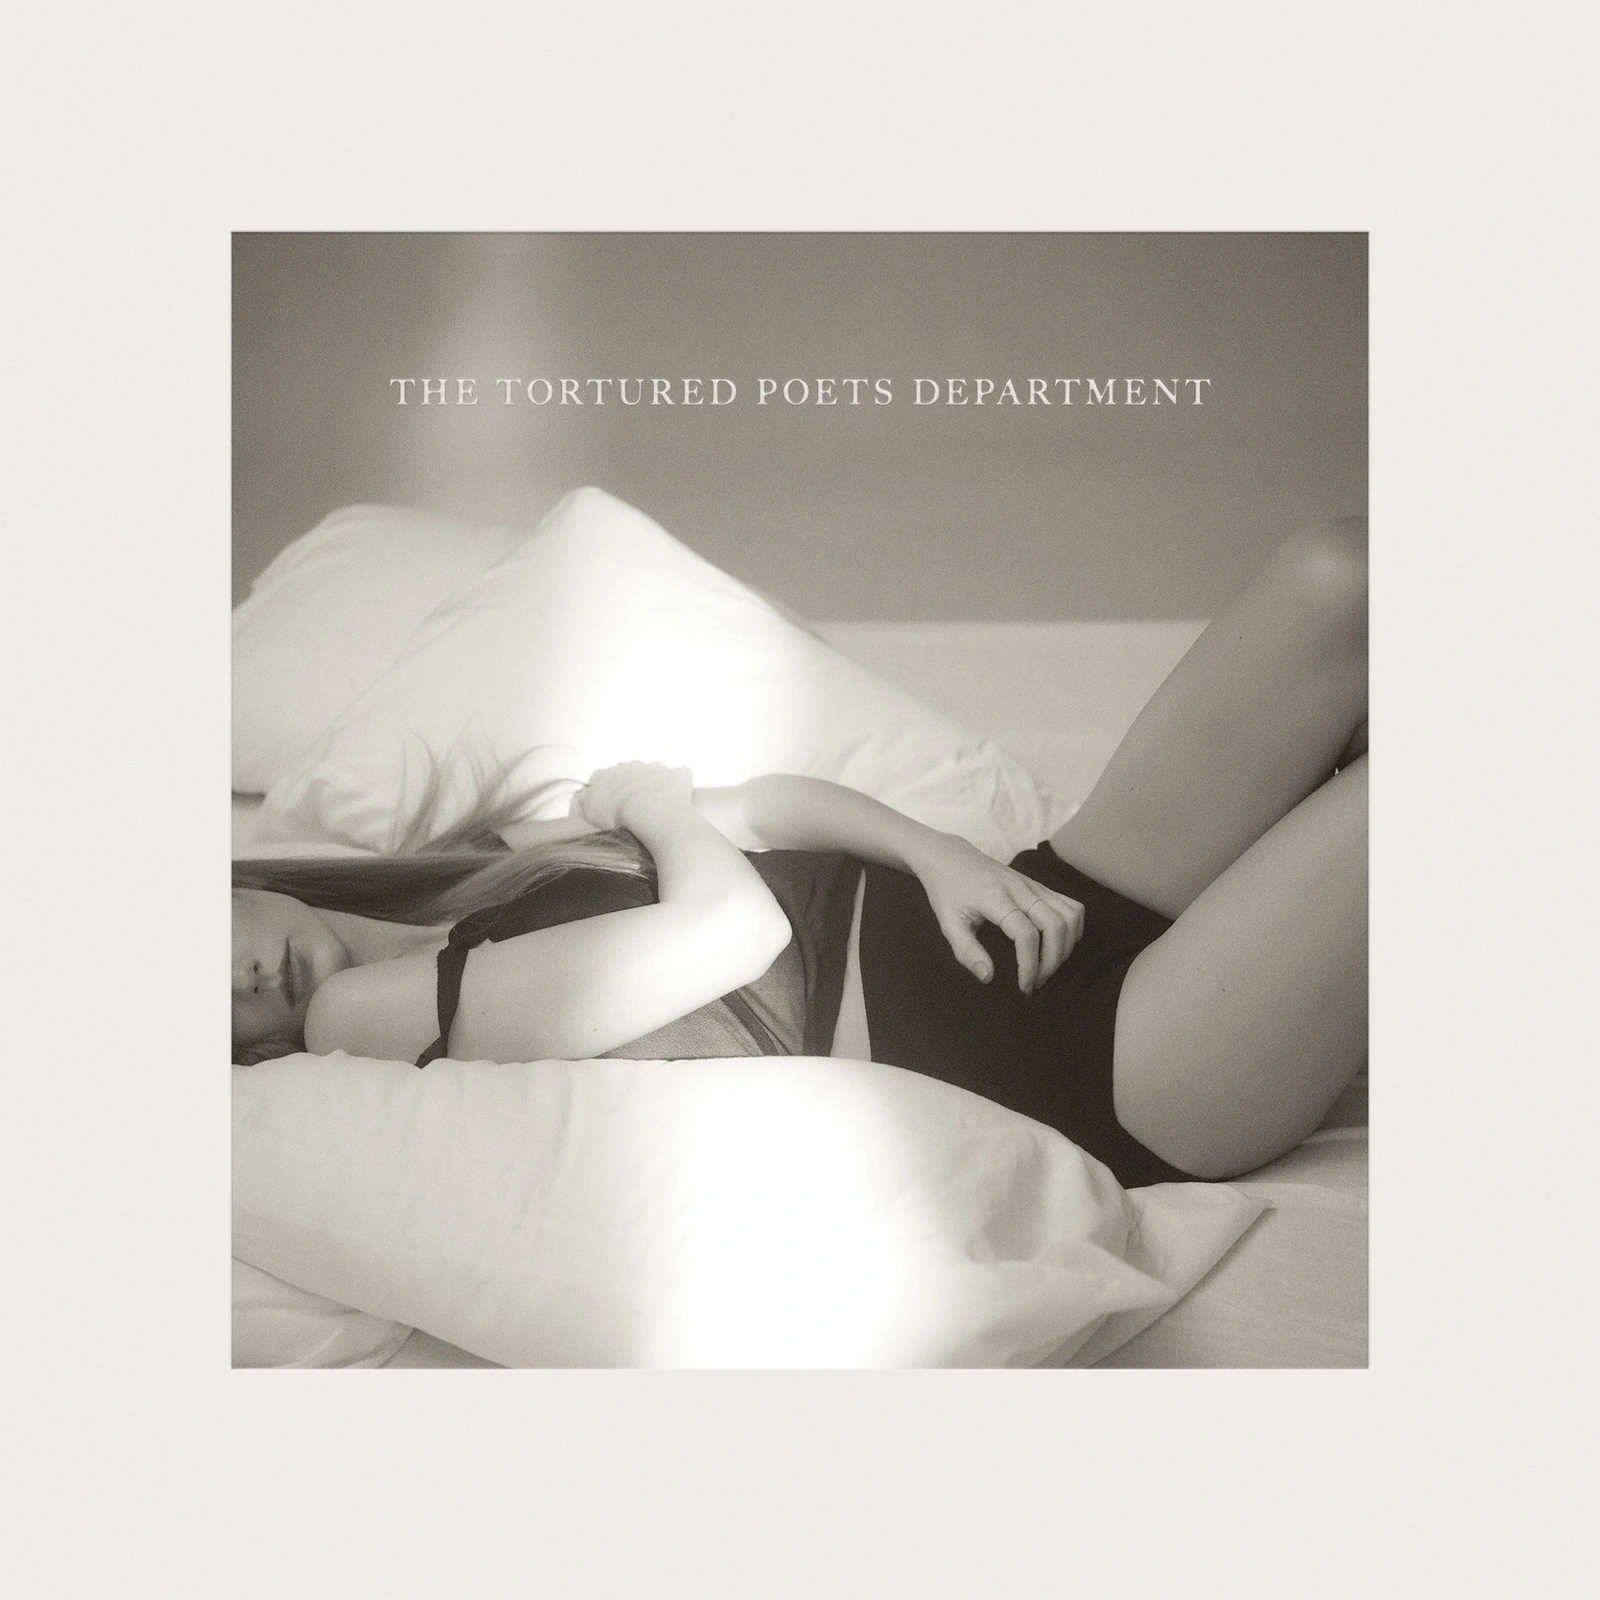
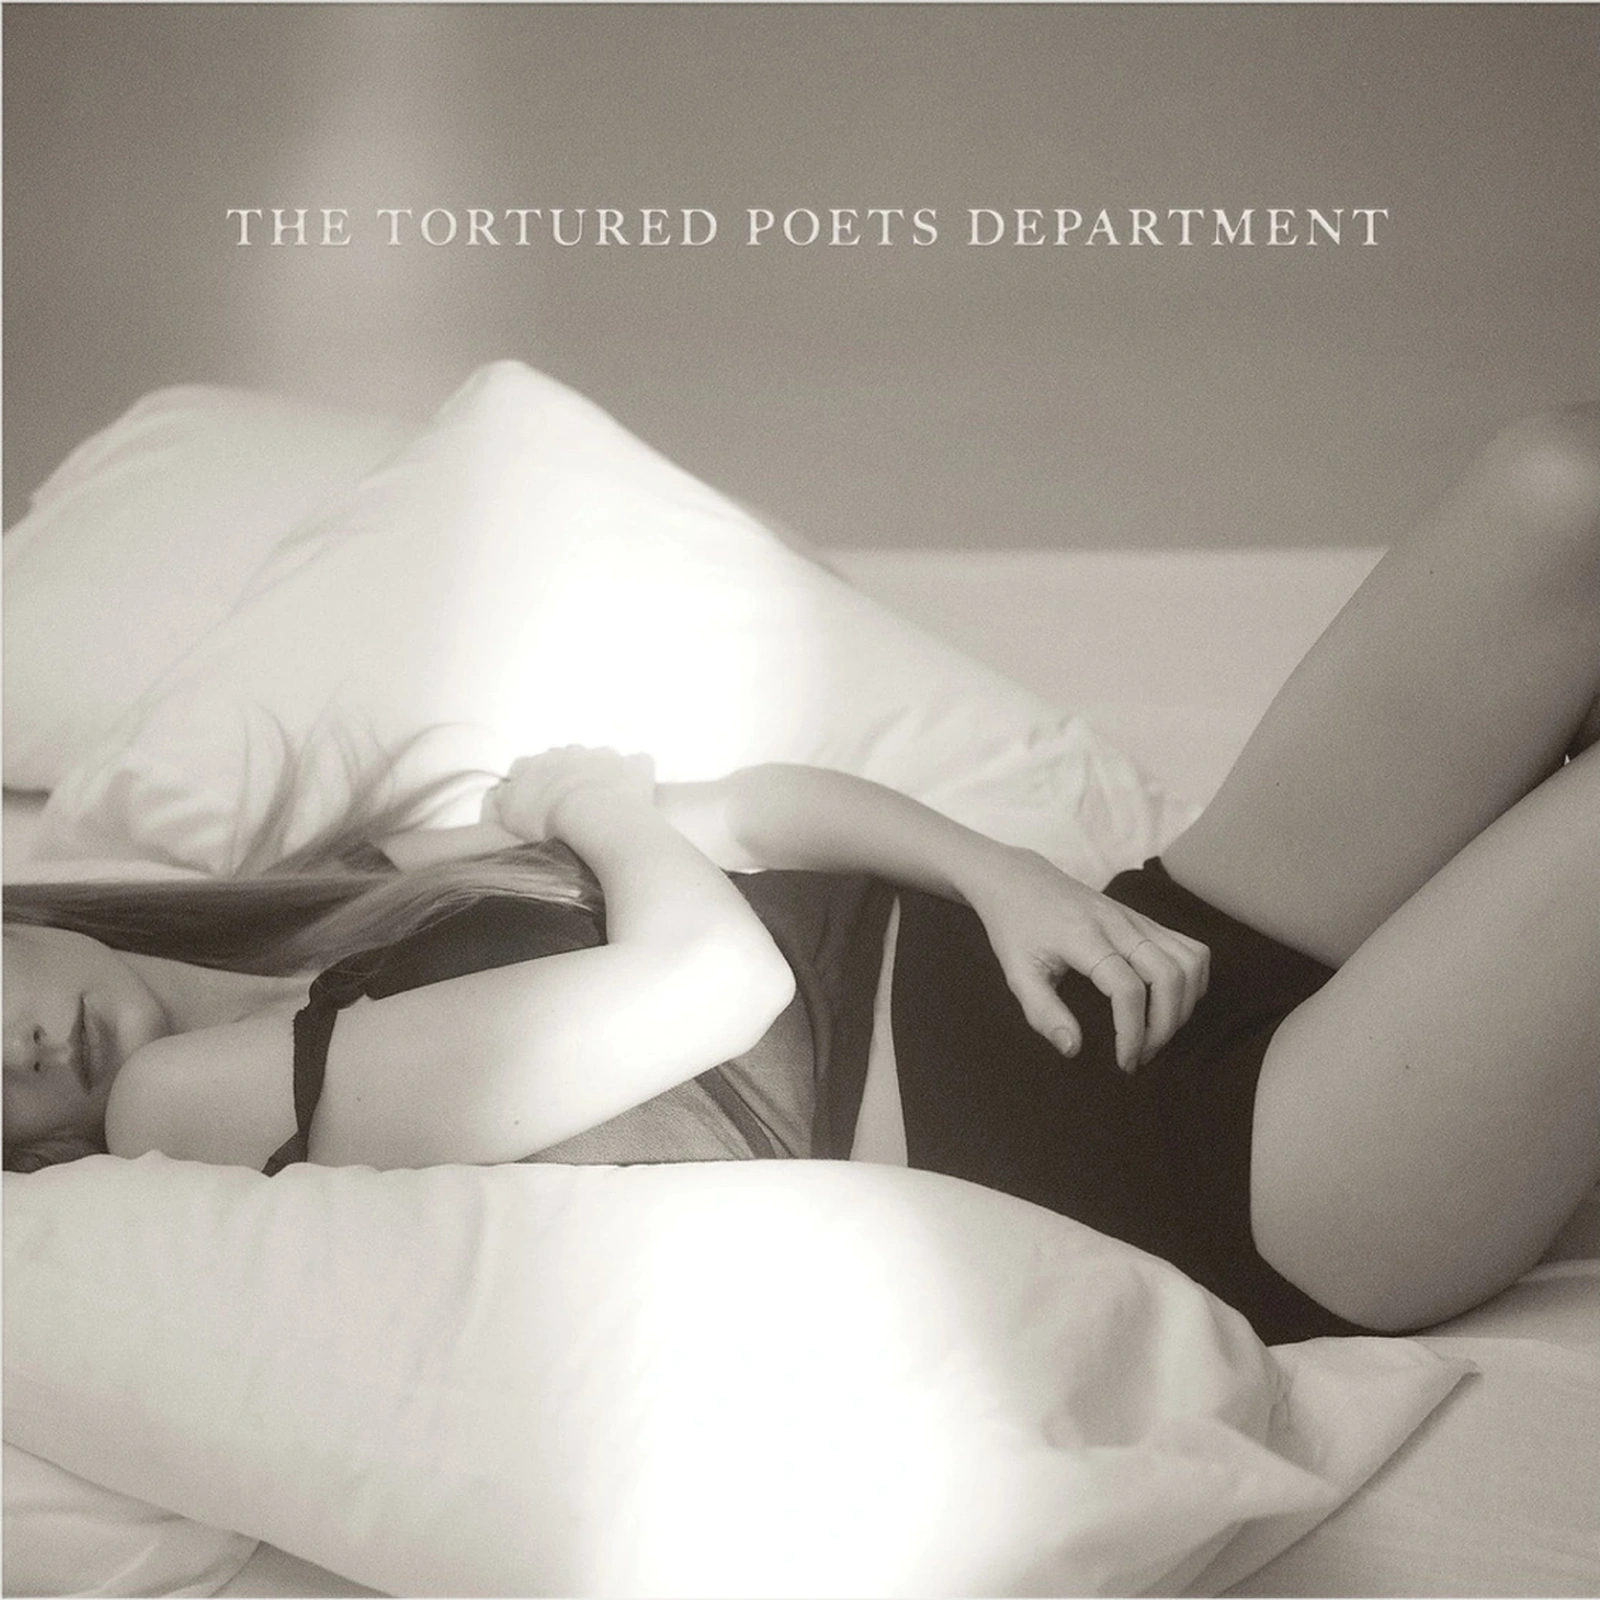
fix(ui): eliminate visible hero lines with full-stage atmospheric canvas and seamless dual-edge blending

diff --git a/apps/client/src/app/page.tsx b/apps/client/src/app/page.tsx
@@ -546,31 +546,31 @@ export default function SoundloungeApp() {
                 <div className="absolute top-0 left-0 w-[600px] h-[480px] bg-[radial-gradient(ellipse_at_top_left,#00e5ff_0%,#103a4c_40%,transparent_70%)] opacity-20 pointer-events-none z-[2]" />
 
                 {/* 4. THE HERO ARTWORK: WIDE, EXPANSIVE, AND SEAMLESSLY BLENDED ON ALL SIDES (NO HARSH LINES OR VERTICAL BOXES) */}
-                <div className="absolute top-0 right-0 w-full sm:w-[88%] lg:w-[78%] xl:w-[70%] h-[900px] sm:h-[1050px] pointer-events-none z-[3] overflow-hidden">
+                <div className="absolute inset-0 w-full h-[950px] sm:h-[1100px] pointer-events-none z-[3] overflow-hidden">
                   <img
                     key={currentSpotlight.id}
                     src={currentSpotlight.heroImageUrl}
                     alt={currentSpotlight.title}
-                    className="w-full h-full object-cover object-center sm:object-[75%_center] select-none animate-in fade-in duration-700"
+                    className="w-full h-full object-cover object-[center_top] sm:object-[82%_top] select-none animate-in fade-in duration-700"
                   />
 
                   {/* Dark scrim overlay to balance bright/light-colored album covers */}
-                  <div className="absolute inset-0 bg-[#060b13]/25 z-[1]" />
+                  <div className="absolute inset-0 bg-[#060b13]/30 z-[1]" />
 
-                  {/* A. LEFT LATERAL BLEND: Wide 55% gradient completely dissolving the left edge into the page background */}
-                  <div className="absolute inset-y-0 left-0 w-full sm:w-[65%] lg:w-[50%] bg-gradient-to-r from-[#060b13] via-[#060b13]/85 via-[#060b13]/40 to-transparent z-[2]" />
+                  {/* A. LEFT LATERAL BLEND: Spans smoothly from screen left to completely dissolve the artwork behind left controls */}
+                  <div className="absolute inset-y-0 left-0 w-full sm:w-[70%] lg:w-[58%] bg-gradient-to-r from-[#060b13] via-[#060b13]/90 via-[#060b13]/50 to-transparent z-[2]" />
 
-                  {/* B. RIGHT LATERAL BLEND: Soft feathering on the right so it doesn't hit the screen edge abruptly */}
-                  <div className="absolute inset-y-0 right-0 w-28 sm:w-48 bg-gradient-to-l from-[#060b13] via-[#060b13]/70 to-transparent z-[2]" />
+                  {/* B. RIGHT LATERAL BLEND: Soft feathering on the right so it melts into dark canvas on wide viewports */}
+                  <div className="absolute inset-y-0 right-0 w-36 sm:w-64 lg:w-80 bg-gradient-to-l from-[#060b13] via-[#060b13]/85 to-transparent z-[2]" />
 
                   {/* C. TOP BLEND: Scrim behind TopBar */}
-                  <div className="absolute inset-x-0 top-0 h-28 bg-gradient-to-b from-[#060b13] via-[#060b13]/60 to-transparent z-[2]" />
+                  <div className="absolute inset-x-0 top-0 h-32 bg-gradient-to-b from-[#060b13] via-[#060b13]/75 to-transparent z-[2]" />
 
-                  {/* D. BOTTOM VERTICAL BLEND: Deep 480px dissolve into dark canvas behind content cards */}
-                  <div className="absolute inset-x-0 bottom-0 h-[480px] bg-gradient-to-b from-transparent via-[#060b13]/50 via-[#060b13]/90 to-[#060b13] z-[2]" />
+                  {/* D. BOTTOM VERTICAL BLEND: Deep 520px dissolve into dark canvas behind content cards */}
+                  <div className="absolute inset-x-0 bottom-0 h-[520px] bg-gradient-to-b from-transparent via-[#060b13]/55 via-[#060b13]/95 to-[#060b13] z-[2]" />
 
                   {/* E. RADIAL SOFT VIGNETTE: Softens all corners and transitions */}
-                  <div className="absolute inset-0 bg-[radial-gradient(ellipse_at_65%_35%,transparent_30%,#060b13_92%)] opacity-70 z-[2]" />
+                  <div className="absolute inset-0 bg-[radial-gradient(ellipse_at_80%_35%,transparent_25%,#060b13_90%)] opacity-80 z-[2]" />
                 </div>
 
                 {/* TopBar sitting seamlessly over the hero stage */}
